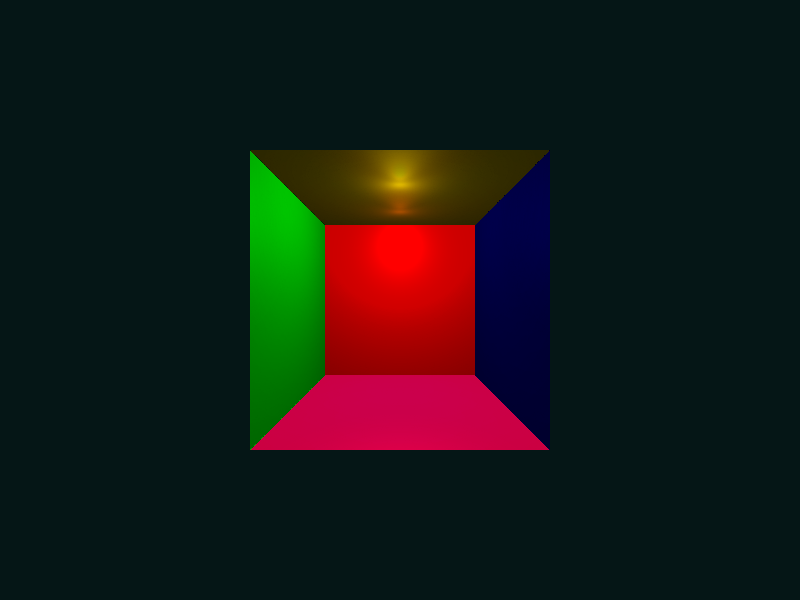
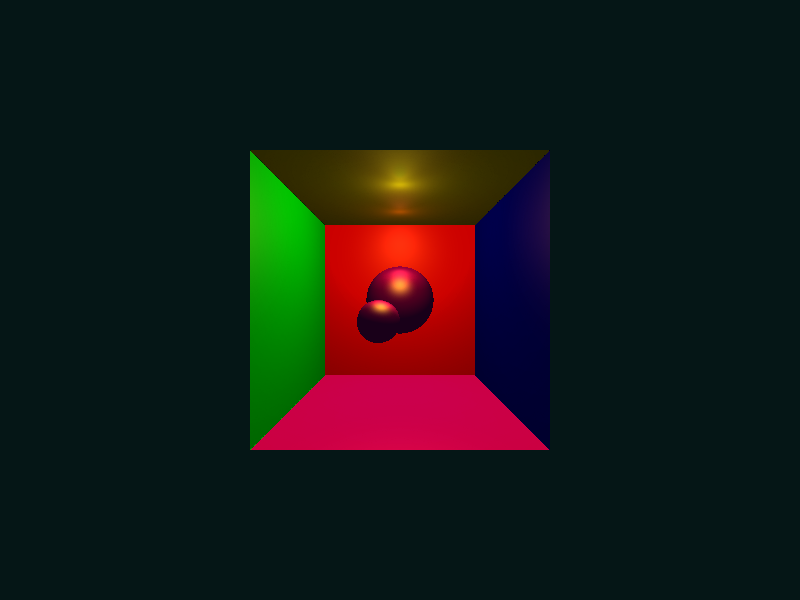
Se agrega objeto esfera, y se agregan 2 esferas a la ecena.

diff --git a/headers/propObjetos.h b/headers/propObjetos.h
@@ -7,39 +7,51 @@
 class PropiedadesObjeto
 {
 public:
-    float coeficienteAmbiente;
-    ColorRGB colorAmbiente;
-    float coeficienteReflexionDifusa;
-    ColorRGB colorReflexionDifusa;
-    float coeficienteReflexionEspecular;
-    int brilloEspecular;
-    ColorRGB colorReflexionEspecular;
-    float coeficienteTransparencia;
-    float coeficienteRefraccion;
+	float coeficienteAmbiente;
+	ColorRGB colorAmbiente;
+	float coeficienteReflexionDifusa;
+	ColorRGB colorReflexionDifusa;
+	float coeficienteReflexionEspecular;
+	int brilloEspecular;
+	ColorRGB colorReflexionEspecular;
+	float coeficienteTransparencia;
+	float coeficienteRefraccion;
 
-    PropiedadesObjeto()
-        : coeficienteAmbiente(DEFAULT_AMBIENT_COEFFICIENT), colorAmbiente(ColorRGB(0, 0, 0)),
-          coeficienteReflexionDifusa(DEFAULT_DIFFUSE_REFLECTION_COEFFICIENT), colorReflexionDifusa(ColorRGB(0, 0, 0)),
-          coeficienteReflexionEspecular(DEFAULT_SPECULAR_REFLECTION_COEFFICIENT), brilloEspecular(DEFAULT_SPECULAR_BRIGHTNESS),
-          colorReflexionEspecular(ColorRGB(255, 255, 255)),
-          coeficienteTransparencia(DEFAULT_TRANSPARENCY_COEFFICIENT), coeficienteRefraccion(DEFAULT_REFRACTION_COEFFICIENT) {}
+	PropiedadesObjeto()
+		: coeficienteAmbiente(DEFAULT_AMBIENT_COEFFICIENT),
+		  colorAmbiente(ColorRGB(0, 0, 0)),
+		  coeficienteReflexionDifusa(DEFAULT_DIFFUSE_REFLECTION_COEFFICIENT),
+		  colorReflexionDifusa(ColorRGB(0, 0, 0)),
+		  coeficienteReflexionEspecular(DEFAULT_SPECULAR_REFLECTION_COEFFICIENT),
+		  brilloEspecular(DEFAULT_SPECULAR_BRIGHTNESS),
+		  colorReflexionEspecular(ColorRGB(255, 255, 255)),
+		  coeficienteTransparencia(DEFAULT_TRANSPARENCY_COEFFICIENT),
+		  coeficienteRefraccion(DEFAULT_REFRACTION_COEFFICIENT) {}
 
-    PropiedadesObjeto(float coefAmbiente, ColorRGB colorAmbiente,
-                      float coefRefDifusa, ColorRGB colorRefDifusa,
-                      float coefRefEspecular, int brilloEspecular,
-                      ColorRGB colorRefEspecular,
-                      float coefTransparencia, float coefRefraccion)
-        : coeficienteAmbiente(coefAmbiente), colorAmbiente(colorAmbiente),
-          coeficienteReflexionDifusa(coefRefDifusa), colorReflexionDifusa(colorRefDifusa),
-          coeficienteReflexionEspecular(coefRefEspecular), brilloEspecular(brilloEspecular),
-          colorReflexionEspecular(colorRefEspecular),
-          coeficienteTransparencia(coefTransparencia), coeficienteRefraccion(coefRefraccion) {}
-    PropiedadesObjeto(const ColorRGB &color)
-        : coeficienteAmbiente(DEFAULT_AMBIENT_COEFFICIENT), colorAmbiente(color),
-          coeficienteReflexionDifusa(DEFAULT_DIFFUSE_REFLECTION_COEFFICIENT), colorReflexionDifusa(color),
-          coeficienteReflexionEspecular(DEFAULT_SPECULAR_REFLECTION_COEFFICIENT), brilloEspecular(DEFAULT_SPECULAR_BRIGHTNESS),
-          colorReflexionEspecular(color),
-          coeficienteTransparencia(DEFAULT_TRANSPARENCY_COEFFICIENT), coeficienteRefraccion(DEFAULT_REFRACTION_COEFFICIENT) {}
+	PropiedadesObjeto(float coefAmbiente, ColorRGB colorAmbiente,
+					  float coefRefDifusa, ColorRGB colorRefDifusa,
+					  float coefRefEspecular, int brilloEspecular,
+					  ColorRGB colorRefEspecular,
+					  float coefTransparencia, float coefRefraccion)
+		: coeficienteAmbiente(coefAmbiente),
+		  colorAmbiente(colorAmbiente),
+		  coeficienteReflexionDifusa(coefRefDifusa),
+		  colorReflexionDifusa(colorRefDifusa),
+		  coeficienteReflexionEspecular(coefRefEspecular),
+		  brilloEspecular(brilloEspecular),
+		  colorReflexionEspecular(colorRefEspecular),
+		  coeficienteTransparencia(coefTransparencia),
+		  coeficienteRefraccion(coefRefraccion) {}
+	PropiedadesObjeto(const ColorRGB &color)
+		: coeficienteAmbiente(DEFAULT_AMBIENT_COEFFICIENT),
+		  colorAmbiente(color),
+		  coeficienteReflexionDifusa(DEFAULT_DIFFUSE_REFLECTION_COEFFICIENT),
+		  colorReflexionDifusa(color),
+		  coeficienteReflexionEspecular(DEFAULT_SPECULAR_REFLECTION_COEFFICIENT),
+		  brilloEspecular(DEFAULT_SPECULAR_BRIGHTNESS),
+		  colorReflexionEspecular(ColorRGB(255, 255, 255)),
+		  coeficienteTransparencia(DEFAULT_TRANSPARENCY_COEFFICIENT),
+		  coeficienteRefraccion(DEFAULT_REFRACTION_COEFFICIENT) {}
 };
 
 #endif // PROPIEDADES_COLOR_OBJETO_H

diff --git a/headers/esfera.h b/headers/esfera.h
@@ -29,7 +29,44 @@ Esfera_RR::Esfera_RR(Vector centro, float radio, PropiedadesObjeto prop)
 
 bool Esfera_RR::calcularInterseccion(Rayo_RR rayo, Vector *puntoInterseccion, Vector *normal)
 {
-    return false; // Por simplicidad, no implementamos la intersección de la esfera
+    // Vector desde el origen del rayo al centro de la esfera
+    Vector L = centro - rayo.getOrigen();
+
+    // Proyección del vector L en la dirección del rayo
+    float tca = L.dot(rayo.getDireccion());
+
+    // Distancia al punto más cercano desde el rayo al centro de la esfera
+    float d2 = L.dot(L) - tca * tca;
+
+    // Si d2 es mayor que el radio al cuadrado, no hay intersección
+    if (d2 > radio * radio)
+        return false;
+
+    // Calcular la distancia desde el punto más cercano hasta el punto de intersección
+    float thc = sqrt(radio * radio - d2);
+
+    // Calcular los puntos de intersección
+    float t0 = tca - thc; // Intersección "frontal"
+    float t1 = tca + thc; // Intersección "posterior"
+
+    // Asegurarnos de que t0 sea la menor distancia positiva
+    if (t0 > t1)
+        std::swap(t0, t1);
+
+    // Si ambas distancias son negativas, el rayo no intersecta la esfera
+    if (t0 < 0 && t1 < 0)
+        return false;
+
+    // Usar el punto de intersección más cercano en dirección positiva
+    float t = (t0 < 0) ? t1 : t0;
+
+    // Calcular el punto de intersección
+    *puntoInterseccion = rayo.getOrigen() + rayo.getDireccion() * t;
+
+    // Calcular la normal en el punto de intersección
+    *normal = (*puntoInterseccion - centro).normalize();
+
+    return true;
 }
 
 #endif // ESFERA_H

diff --git a/headers/escena.h b/headers/escena.h
@@ -128,10 +128,29 @@ Escena_RR::Escena_RR()
 
     // MAS OBJETOS
 
-    // Esfera_RR esfera = Esfera_RR(
-    //     Vector(0, 0, 0),      // Centro de la esfera
-    //     1.0f,                 // Radio de la esfera
-    //     ColorRGB(255, 0, 0)); // Color rojo
+    PropiedadesObjeto propEsfera(
+        0.1f,                    // Coeficiente de ambiente
+        ColorRGB(255, 0, 255),   // Color ambiente
+        0.5f,                    // Coeficiente de reflexión difusa
+        ColorRGB(255, 0, 255),   // Color de reflexión difusa
+        0.8f,                    // Coeficiente de reflexión especular
+        5,                       // Brillo especular
+        ColorRGB(255, 255, 255), // Color de reflexión especular
+        0.0f,                    // Coeficiente de transparencia
+        0.1f                     // Coeficiente de refracción
+    );
+
+    Esfera_RR esfera = Esfera_RR(
+        Vector(8, 0, 0), // Centro de la esfera
+        2.0f,            // Radio de la esfera
+        propEsfera);     // Color rojo
+    objetos.push_back(std::make_shared<Esfera_RR>(esfera));
+
+    Esfera_RR esfera2 = Esfera_RR(
+        Vector(4, -1, -1), // Centro de la esfera
+        1.0f,              // Radio de la esfera
+        propEsfera);       // Color rojo
+    objetos.push_back(std::make_shared<Esfera_RR>(esfera2));
 
     // objetos.push_back(&esfera);
 }

diff --git a/headers/globalVariables.h b/headers/globalVariables.h
@@ -7,7 +7,7 @@ int IMAGE_HEIGHT = 600;
 
 float DEFAULT_AMBIENT_COEFFICIENT = 0.1f;
 float DEFAULT_DIFFUSE_REFLECTION_COEFFICIENT = 0.7f;
-float DEFAULT_SPECULAR_REFLECTION_COEFFICIENT = 0.3f;
+float DEFAULT_SPECULAR_REFLECTION_COEFFICIENT = 0.2f;
 int DEFAULT_SPECULAR_BRIGHTNESS = 10;
 float DEFAULT_TRANSPARENCY_COEFFICIENT = 0.0f;
 float DEFAULT_REFRACTION_COEFFICIENT = 0.1f;
